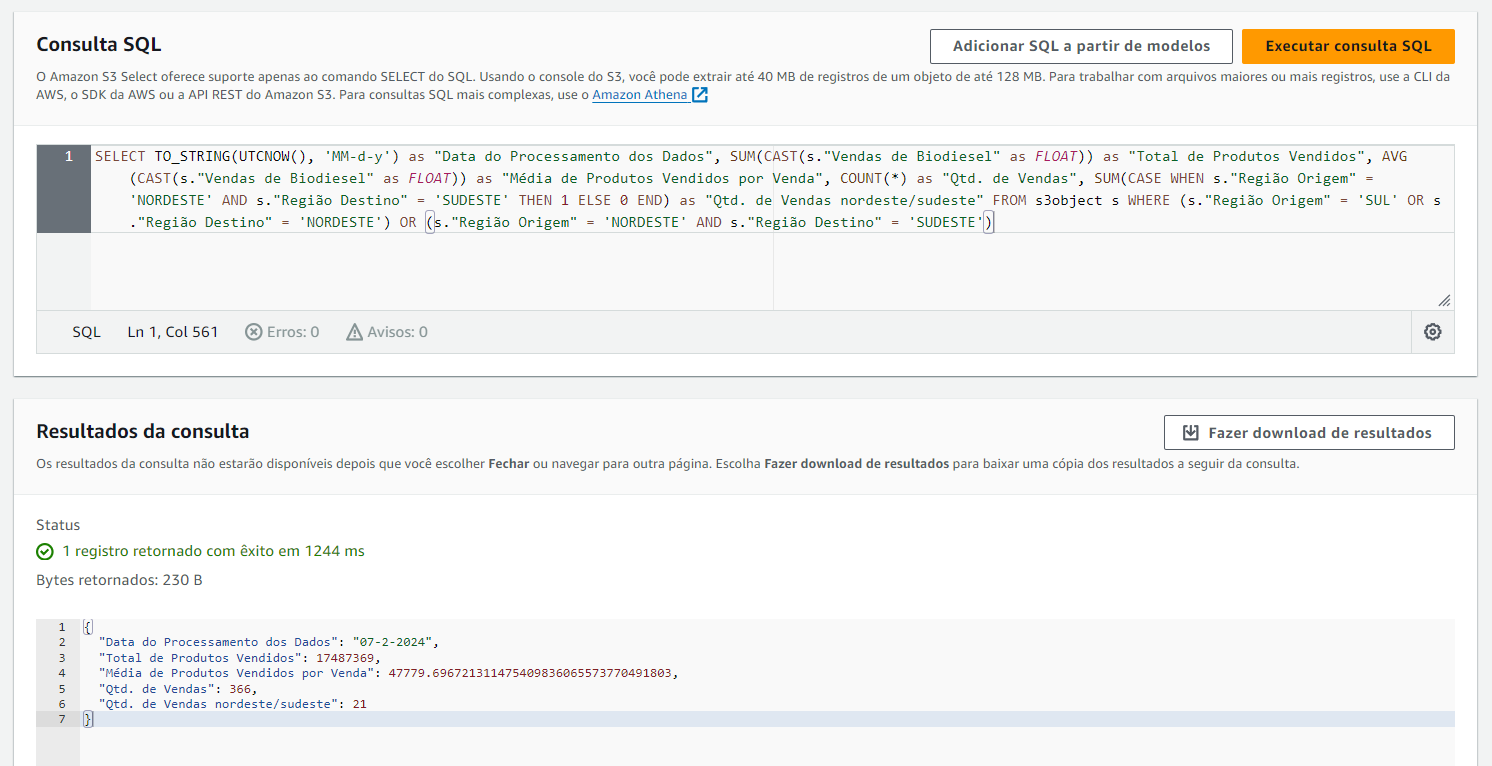
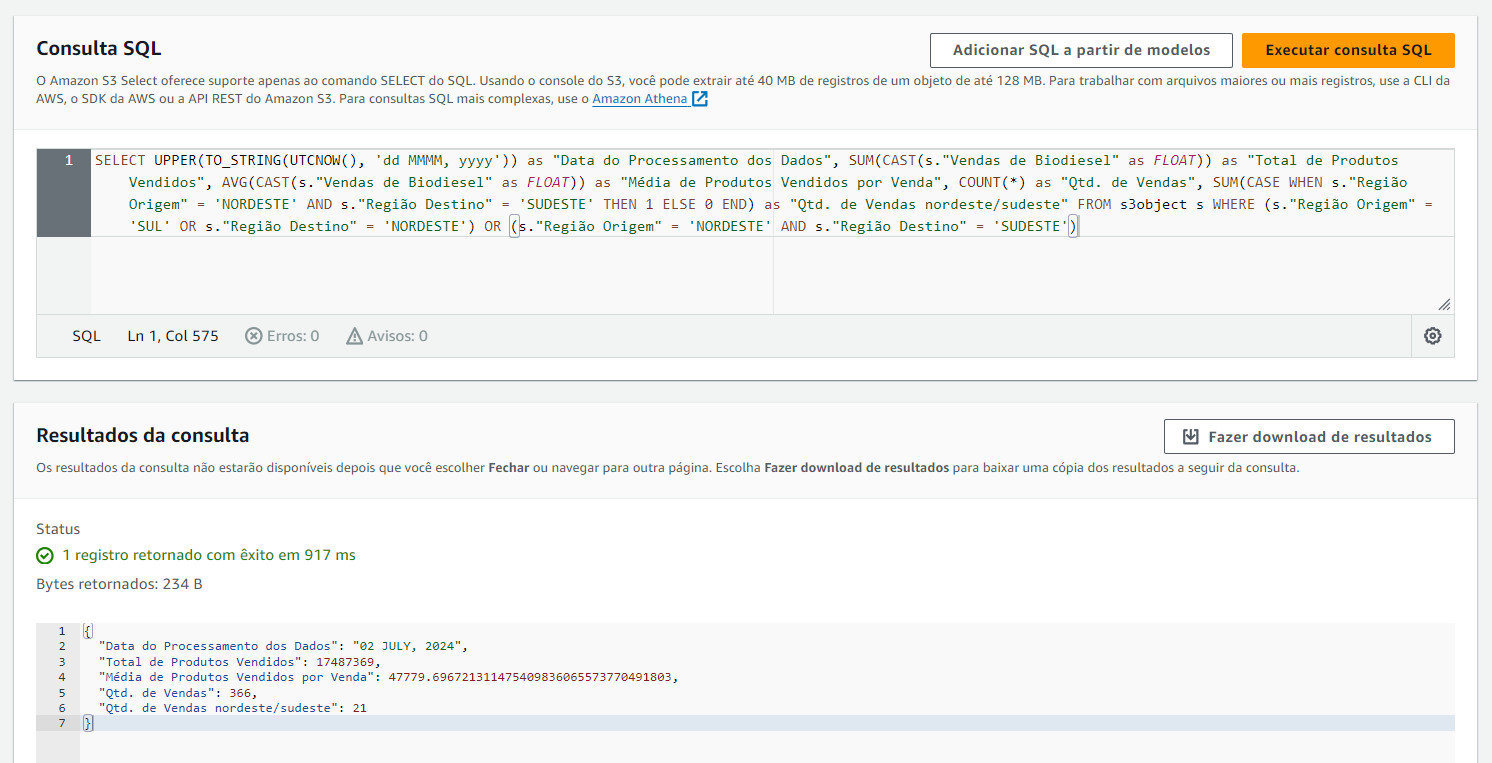
Sprint 5

diff --git a/repositorio_padrao - Copia/Compass_UOL/Sprint 5/Desafio/README.md b/repositorio_padrao - Copia/Compass_UOL/Sprint 5/Desafio/README.md
@@ -14,12 +14,18 @@
 
     ![Bucket](../evidencias/bucket%20criado.png)
 
-- Na consulta obtive a data em que foi realizado o processamento através da função UTCNOW() e fiz sua conversão com o TO_STRING. 
+- Na consulta obtive a data em que foi realizado o processamento através da função de data UTCNOW() e fiz sua conversão com o TO_STRING() pra melhor formatação dos dados de data. 
 
-- Usei as funções agregadas SUM, AVG e COUNT para fazer a soma do total de produtos vendidos, a média por vendas e a quantidade de vendas, - respectivamente. E também usei o SUM para calcular a quantidade de vendas nordeste/sudeste.
+- Com a função de string UPPER() deixei as informações de data em maiúsculo.
 
-- Fiz um filtro para mostrar apenas os registros que tem como origem o Sul ou como destino o nordeste e as que tem como origem o nordeste e destino sudeste, logo, selecionando dados com pelo uma das 3 condições.
+- Usei as funções agregadas SUM(), AVG() e COUNT() para fazer a soma do total de produtos vendidos, a média por vendas e a quantidade de vendas, - respectivamente. 
 
-- Tudo isso somente em uma consulta: [Evidencia 1](../Desafio/etapa-1/consulta_sql.sql)
+- E também usei o SUM() para calcular a quantidade de vendas nordeste/sudeste junto com uma função condicional em que se somava 1 cada vez que a condição fosse verdadeira.
 
-    ![Evidencia 1](../evidencias/execução%20da%20consulta%20SQL.png)
+- Junto as funções agregadas usei a função de conversão CAST() para definir o tipo de dados que estava sendo tratado.
+
+- E fiz um filtro usando operadores lógicos no WHERE para mostrar apenas os registros que tem como origem o Sul ou como destino o nordeste e as que tem como origem o nordeste e destino sudeste, logo, selecionando dados com pelo uma das 3 condições.
+
+- Tudo isso somente em uma consulta: [Consulta_SQL.sql](../Desafio/etapa-1/consulta_sql.sql)
+
+    ![Execução da consulta SQL](../evidencias/execução%20da%20consulta%20SQL.png)

diff --git a/repositorio_padrao - Copia/Compass_UOL/Sprint 5/README.md b/repositorio_padrao - Copia/Compass_UOL/Sprint 5/README.md
@@ -8,7 +8,9 @@
 
 
 - Certificado do Curso Parceiro AWS: AWS Cloud Quest: Cloud Practitioner
-[Curso Parceiro AWS: Credenciamento](../Sprint%205/certificados/aws-cloud-quest-cloud-practitioner.png)
+
+    [Curso Parceiro AWS: Credenciamento](../Sprint%205/certificados/aws-cloud-quest-cloud-practitioner.png)
 
 - Certificado do Curso-padrão de preparação para o exame: AWS Certified Cloud Practitioner (CLF-C02)
-[Curso Parceiro AWS: Fundamentos Técnicos da AWS](../Sprint%205/certificados/Certificado%20do%20Curso-padrão%20de%20preparação%20para%20o%20exame%20AWS%20Certified%20Cloud%20Practitioner%20(CLF-C02).pdf)
+
+    [Curso Parceiro AWS: Fundamentos Técnicos da AWS](../Sprint%205/certificados/Certificado%20do%20Curso-padrão%20de%20preparação%20para%20o%20exame%20AWS%20Certified%20Cloud%20Practitioner%20(CLF-C02).pdf)
